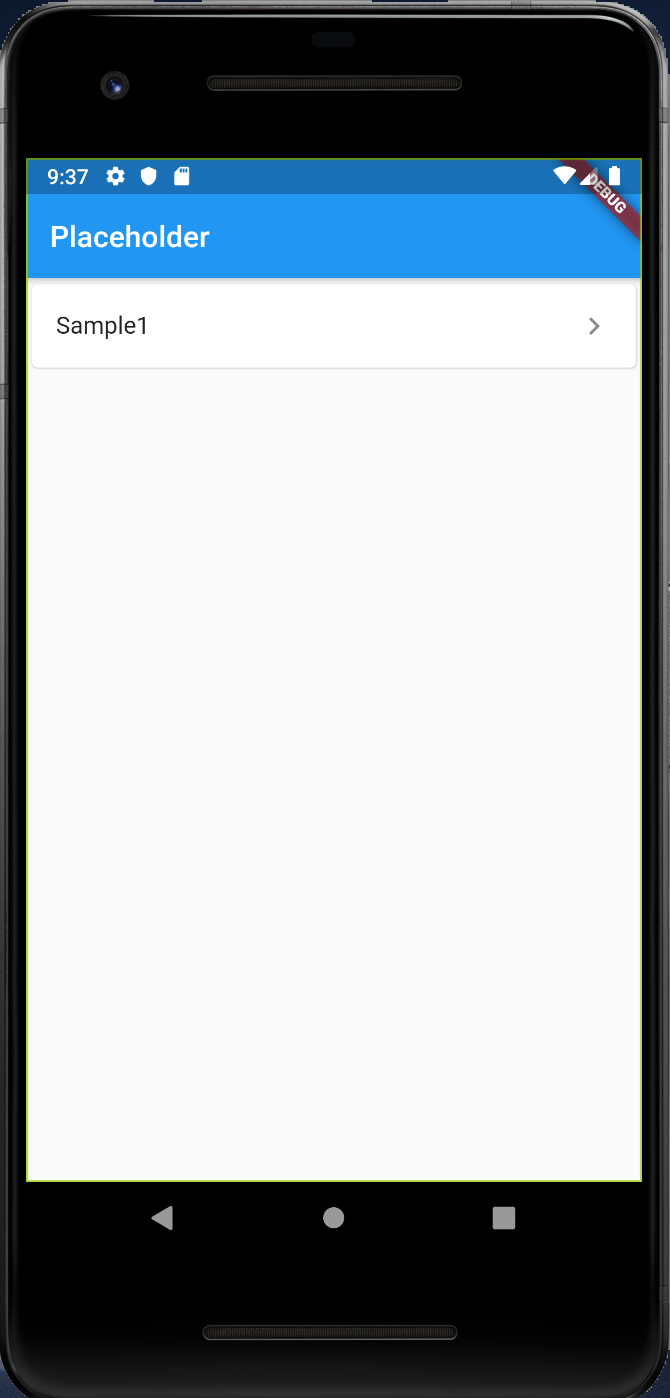
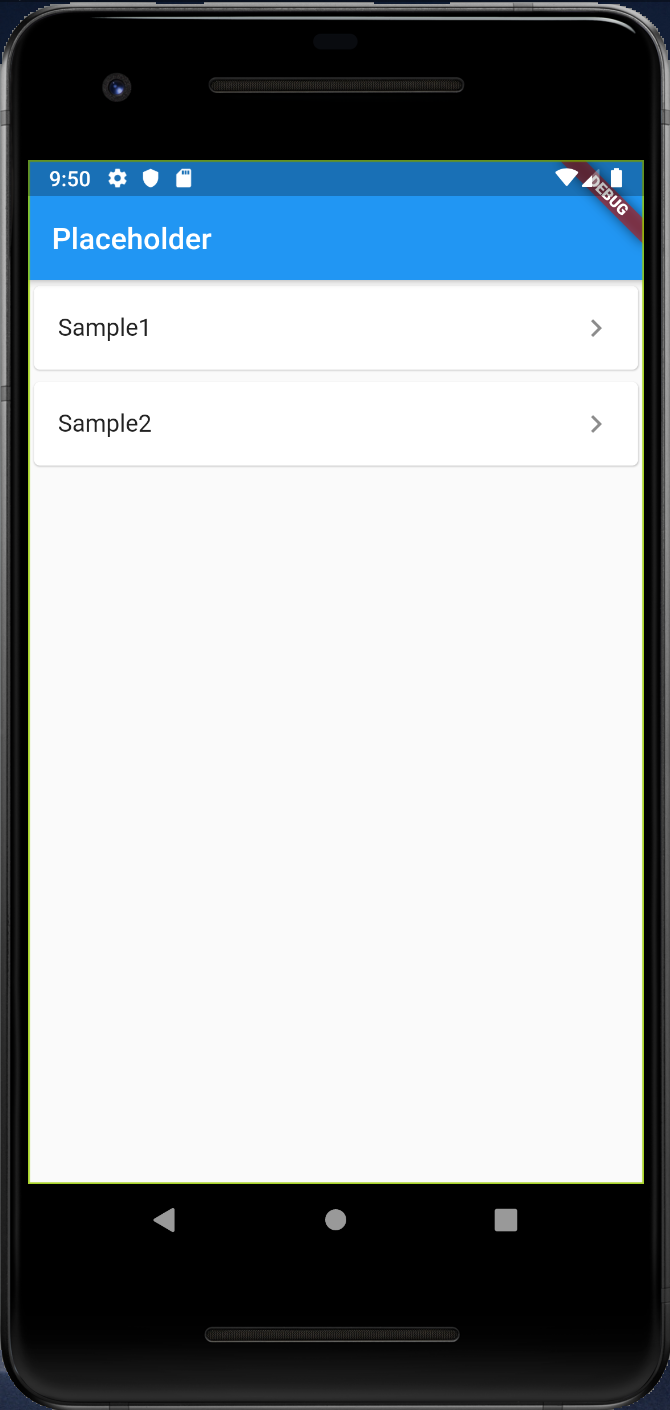
[Placeholder] Add Sample2

diff --git a/placeholder/lib/pages/sample2.dart b/placeholder/lib/pages/sample2.dart
@@ -1,0 +1,35 @@
+import 'package:flutter/material.dart';
+
+class Sample2Page extends StatelessWidget {
+  @override
+  Widget build(BuildContext context) {
+    return Scaffold(
+      appBar: AppBar(
+        title: Text('Sample2'),
+      ),
+      body: Column(
+        mainAxisAlignment: MainAxisAlignment.spaceAround,
+        children: <Widget>[
+          Container(
+            height: 50,
+            width: 300,
+            child: Placeholder(),
+          ),
+          Align(
+            alignment: Alignment.centerLeft,
+            child: SizedBox(
+              height: 300,
+              width: 200,
+              child: Placeholder(),
+            ),
+          ),
+          Container(
+            height: 100,
+            width: 300,
+            child: Placeholder(),
+          ),
+        ],
+      ),
+    );
+  }
+}

diff --git a/placeholder/lib/main.dart b/placeholder/lib/main.dart
@@ -1,6 +1,7 @@
 import 'package:flutter/material.dart';
 
 import 'pages/sample1.dart';
+import 'pages/sample2.dart';
 
 void main() => runApp(MyApp());
 
@@ -12,6 +13,7 @@ class MyApp extends StatelessWidget {
       routes: {
         '/': (BuildContext context) => MyHomePage(),
         '/sample1': (BuildContext context) => Sample1Page(),
+        '/sample2': (BuildContext context) => Sample2Page(),
       },
     );
   }
@@ -28,6 +30,7 @@ class MyHomePage extends StatelessWidget {
         child: ListView(
           children: <Widget>[
             _buildList(context, 'Sample1', '/sample1'),
+            _buildList(context, 'Sample2', '/sample2'),
           ],
         ),
       ),

diff --git a/placeholder/README.md b/placeholder/README.md
@@ -6,6 +6,6 @@
 
 ## Screenshots
 
-|Menu|Sample1|
-|:-:|:-:|
-|<img src="./screenshots/Menu.png" height="400" alt="Screenshot"/>|<img src="./screenshots/Sample1.png" height="400" alt="Screenshot"/>|
+|Menu|Sample1|Sample2|
+|:-:|:-:|:-:|
+|<img src="./screenshots/Menu.png" height="400" alt="Screenshot"/>|<img src="./screenshots/Sample1.png" height="400" alt="Screenshot"/>|<img src="./screenshots/Sample2.png" height="400" alt="Screenshot"/>|
